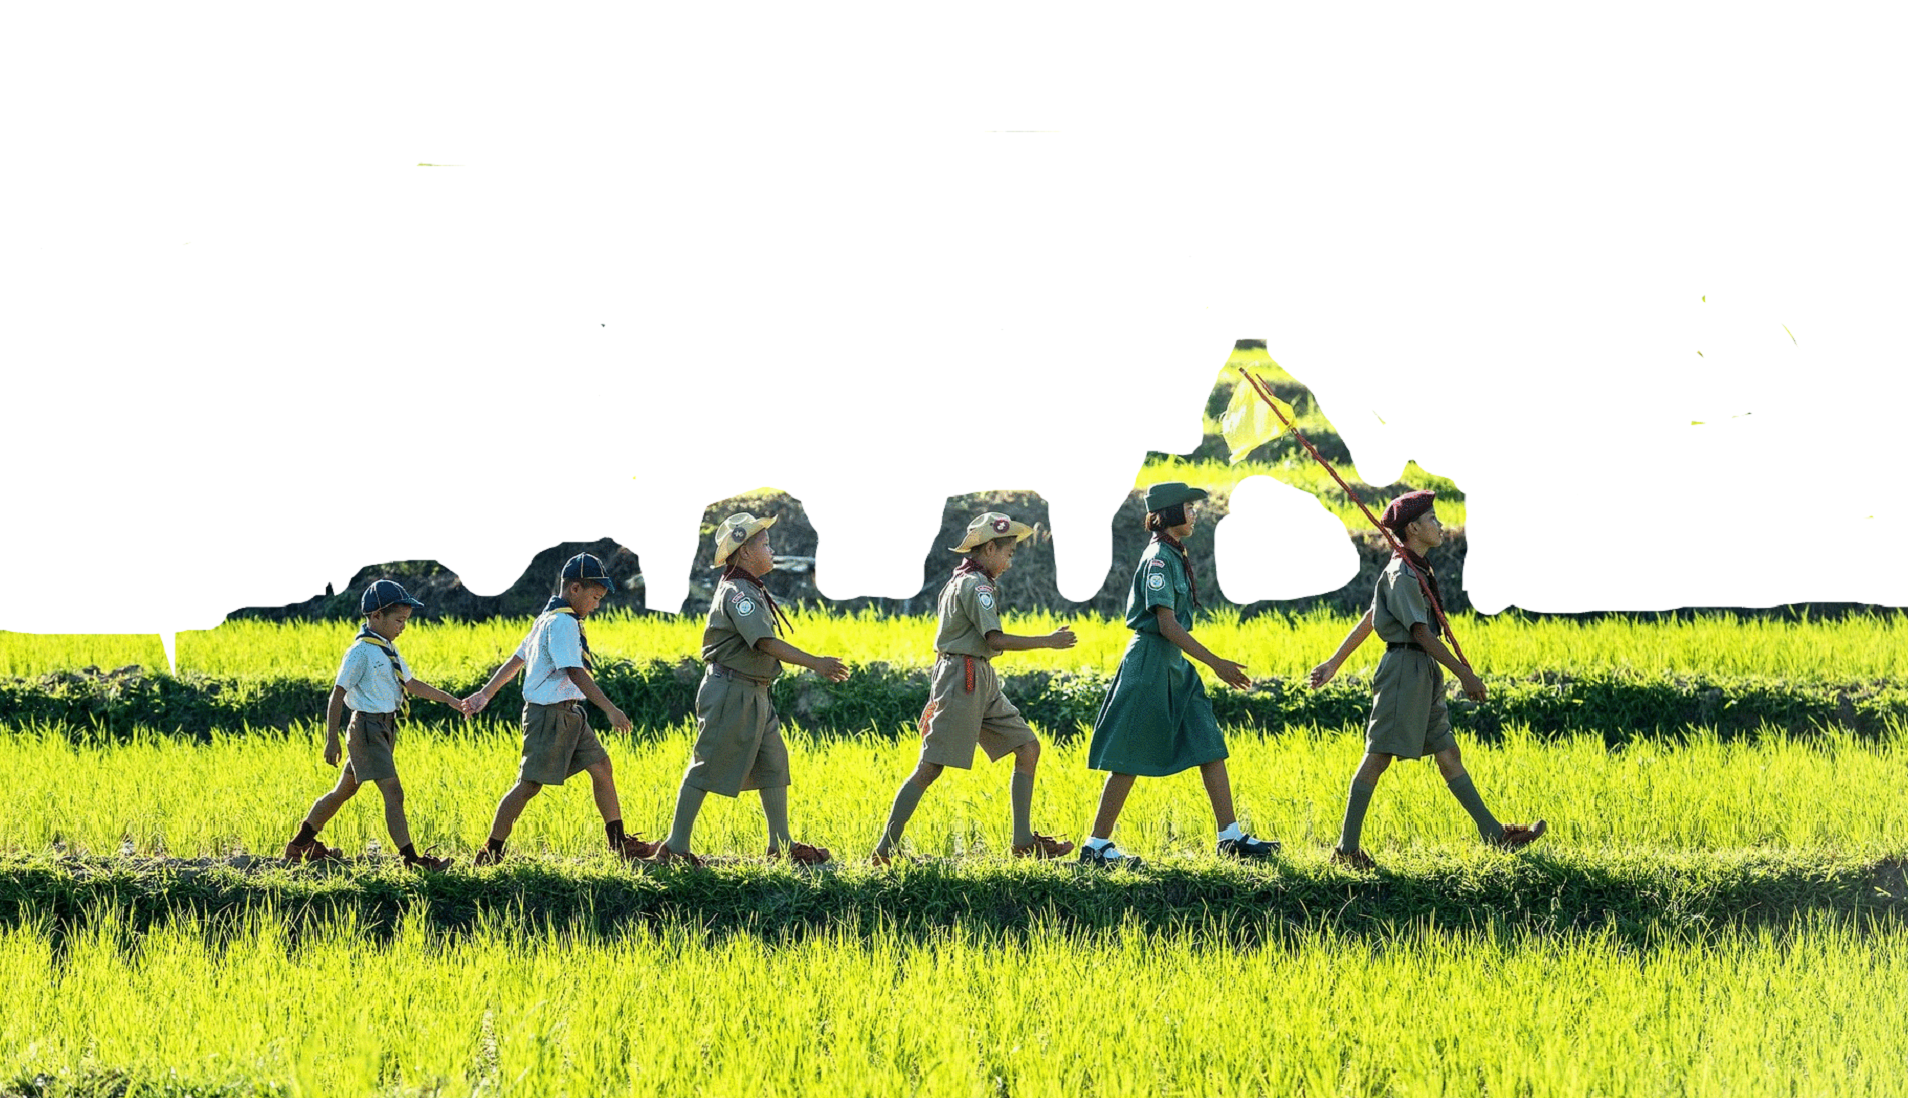
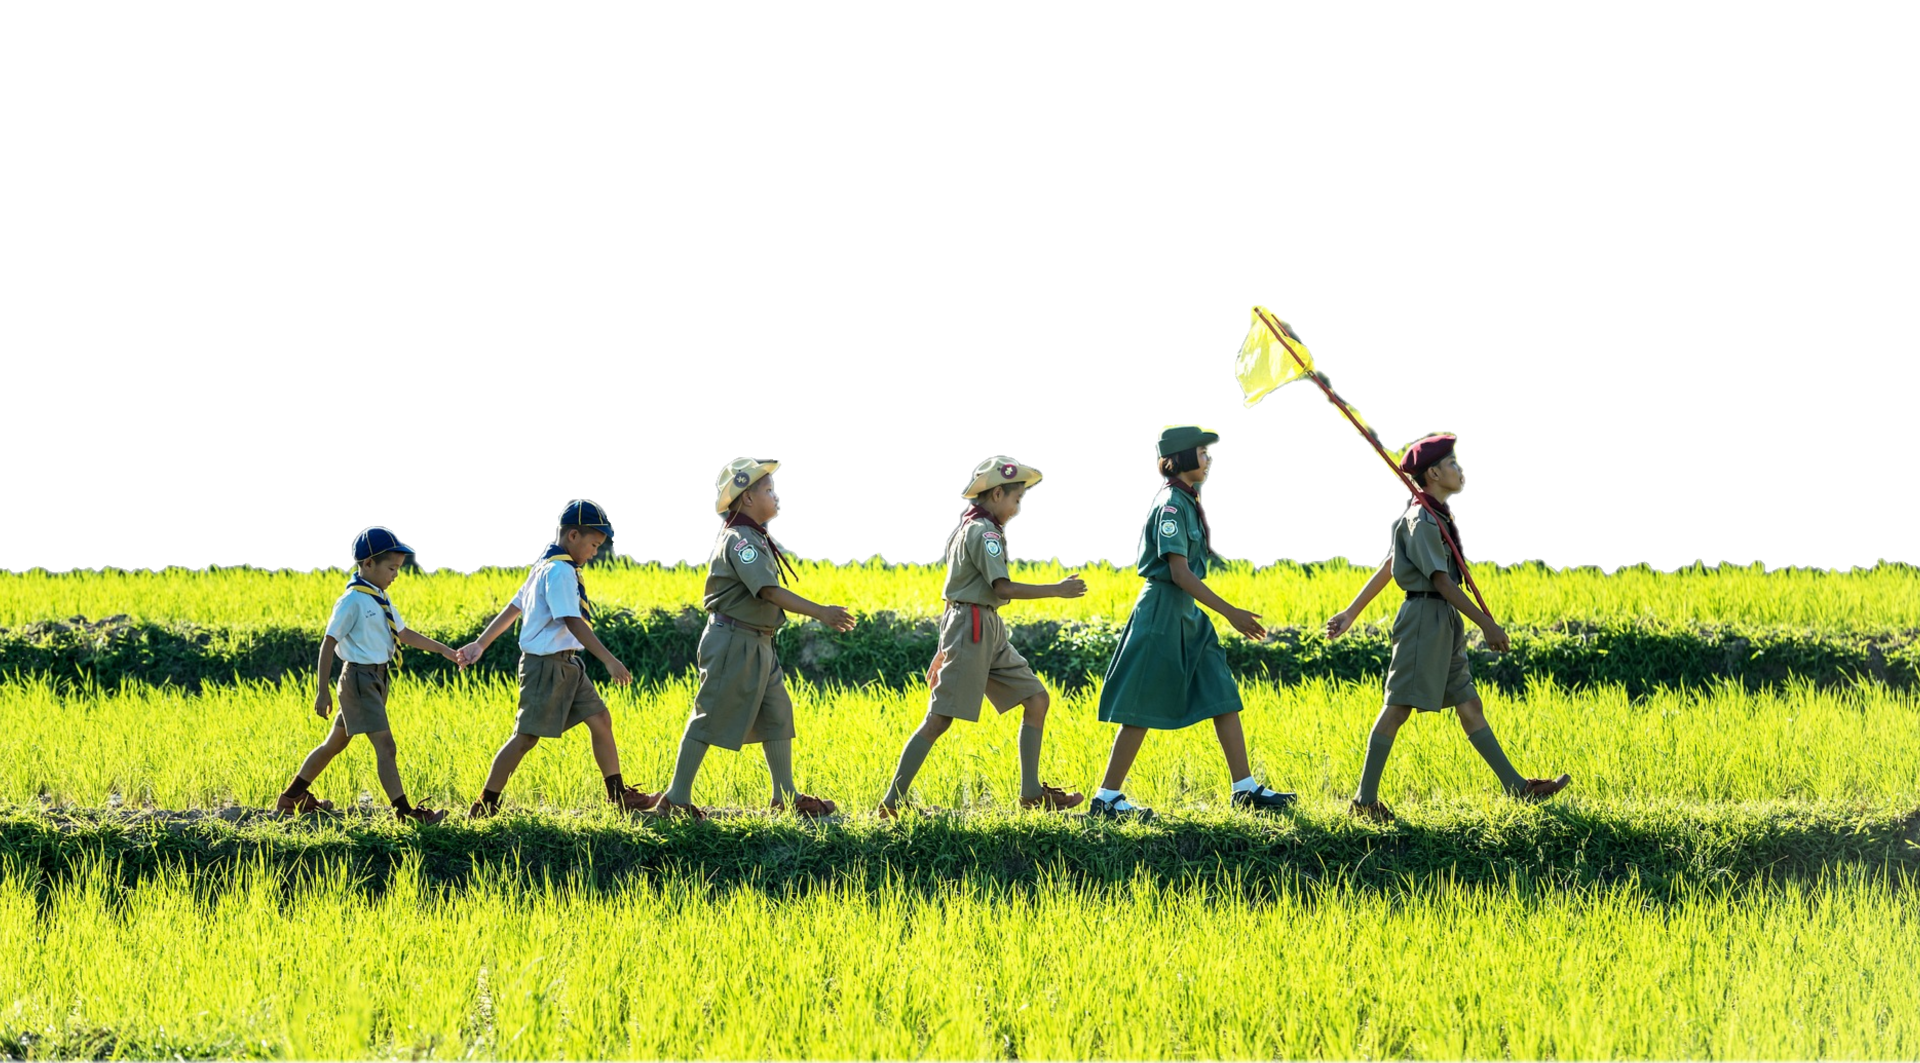
:lipstick: Tweak parallax images (2)

diff --git a/resources/scss/_components.scss b/resources/scss/_components.scss
@@ -24,6 +24,10 @@
 }
 
 .parallax .background {
+    transform: translateZ(-15px) scale(2.5);
+}
+
+.parallax .middleground {
     transform: translateZ(-10px) scale(2);
 }
 
@@ -32,6 +36,7 @@
 }
 
 .parallax .background,
+.parallax .middleground,
 .parallax .foreground {
     position: absolute;
     height: 100%;

diff --git a/resources/views/landing-page.blade.php b/resources/views/landing-page.blade.php
@@ -11,8 +11,9 @@
                 <p class="col-lg-6 mx-auto lead text-light">{{ __('A community driven database of scouting scarves.') }}</p>
                 <a class="btn btn-success btn-lg px-4" href="{{ route('scarves.create') }}">{{ __('Add your scarf now!') }}</a>
             </div>
-            <img width="500" alt="" src="{{ asset('images/banner1-background.png') }}" class="background">
-            <img alt="{{ __('A patrol of scouts walking in nature on a sunny day') }}" src="{{ asset('images/banner1-foreground.png') }}" class="foreground">
+            <img src="{{ asset('images/banner1-background.png') }}" class="background" alt="">
+            <img src="{{ asset('images/banner1-middleground.png') }}" class="middleground" alt="">
+            <img src="{{ asset('images/banner1-foreground.png') }}" class="foreground" alt="{{ __('A patrol of scouts walking in nature on a sunny day') }}">
         </header>
 
         <div class="bg-white">
